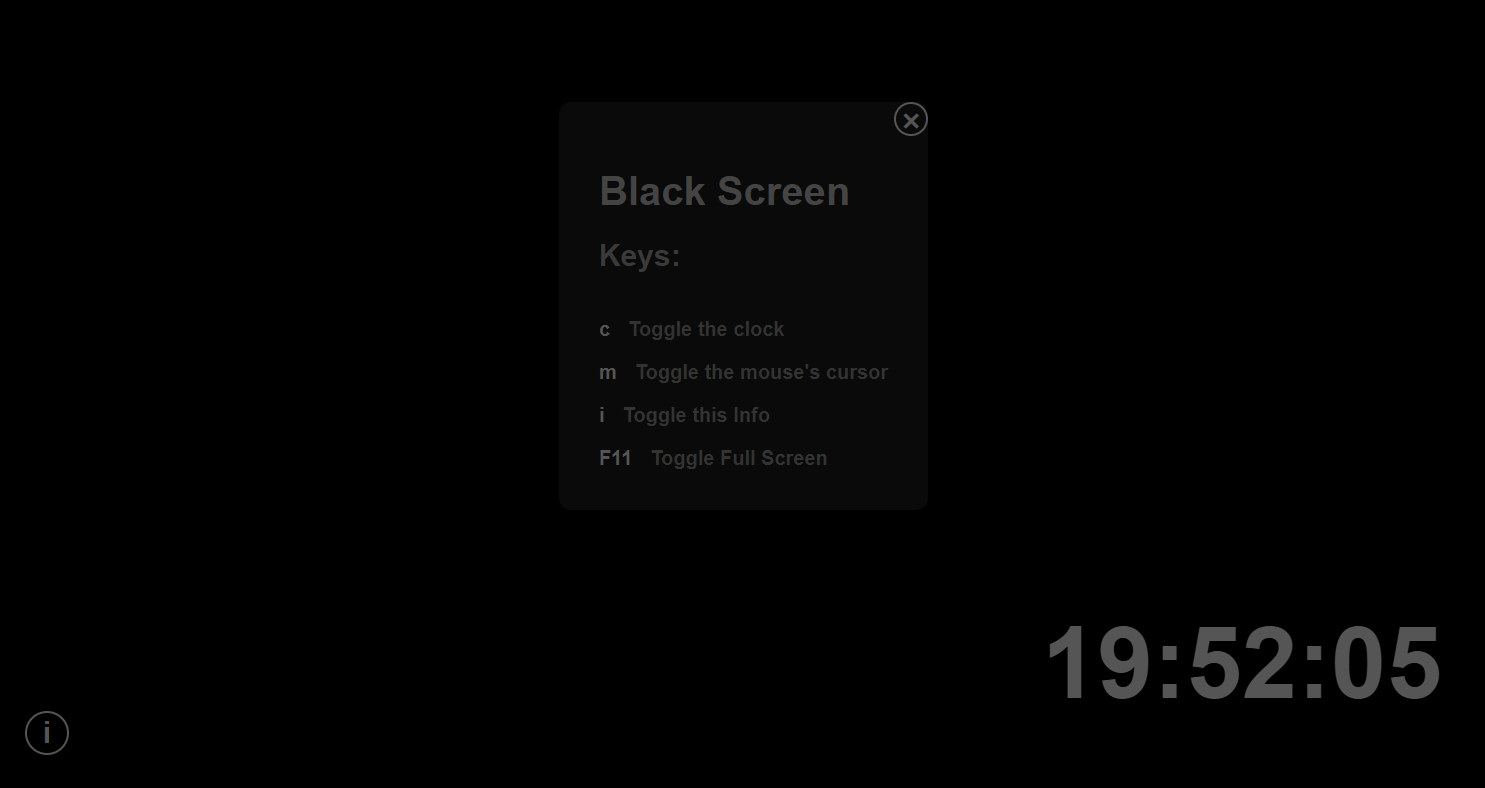
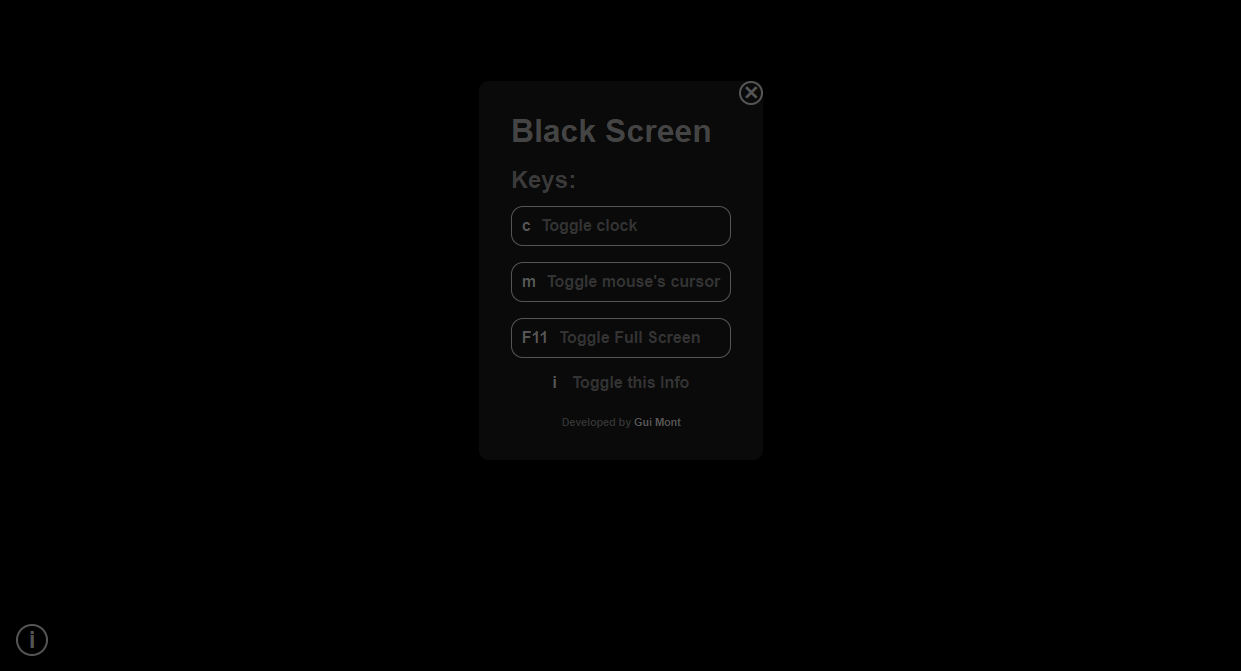
Add developer and update screenshot

diff --git a/index.html b/index.html
@@ -146,6 +146,16 @@
         .wrapper .info_wrapper #info.show {
             opacity: 1;
         }
+        .wrapper .info_wrapper #info footer {
+            margin-top: 1.5rem;
+        }
+        .wrapper .info_wrapper #info footer h6 {
+            text-align: center;
+        }
+        .wrapper .info_wrapper #info footer h6 a {
+            color: #555;
+            text-decoration: none;
+        }
         /* Info Button */
         .info_btn {
             color: #555;
@@ -204,6 +214,9 @@
                     </li>
                     <li class="hidden_mobile"><strong>i</strong> Toggle this Info</li>
                 </ul>
+                <footer>
+                    <h6>Developed by <a href="https://github.com/guimontme" target="_blank">Gui Mont</a></h6>
+                </footer>
             </div>
         </div>
         <div id="clock"></div>
@@ -267,9 +280,9 @@
 
         updateClock();
         setInterval(updateClock, 1000);
-        setTimeout(() => {
-            infoBtn.classList.remove('show');
-        }, 3000);
+        // setTimeout(() => {
+        //     infoBtn.classList.remove('show');
+        // }, 3000);
     </script>
 </body>
 </html>
